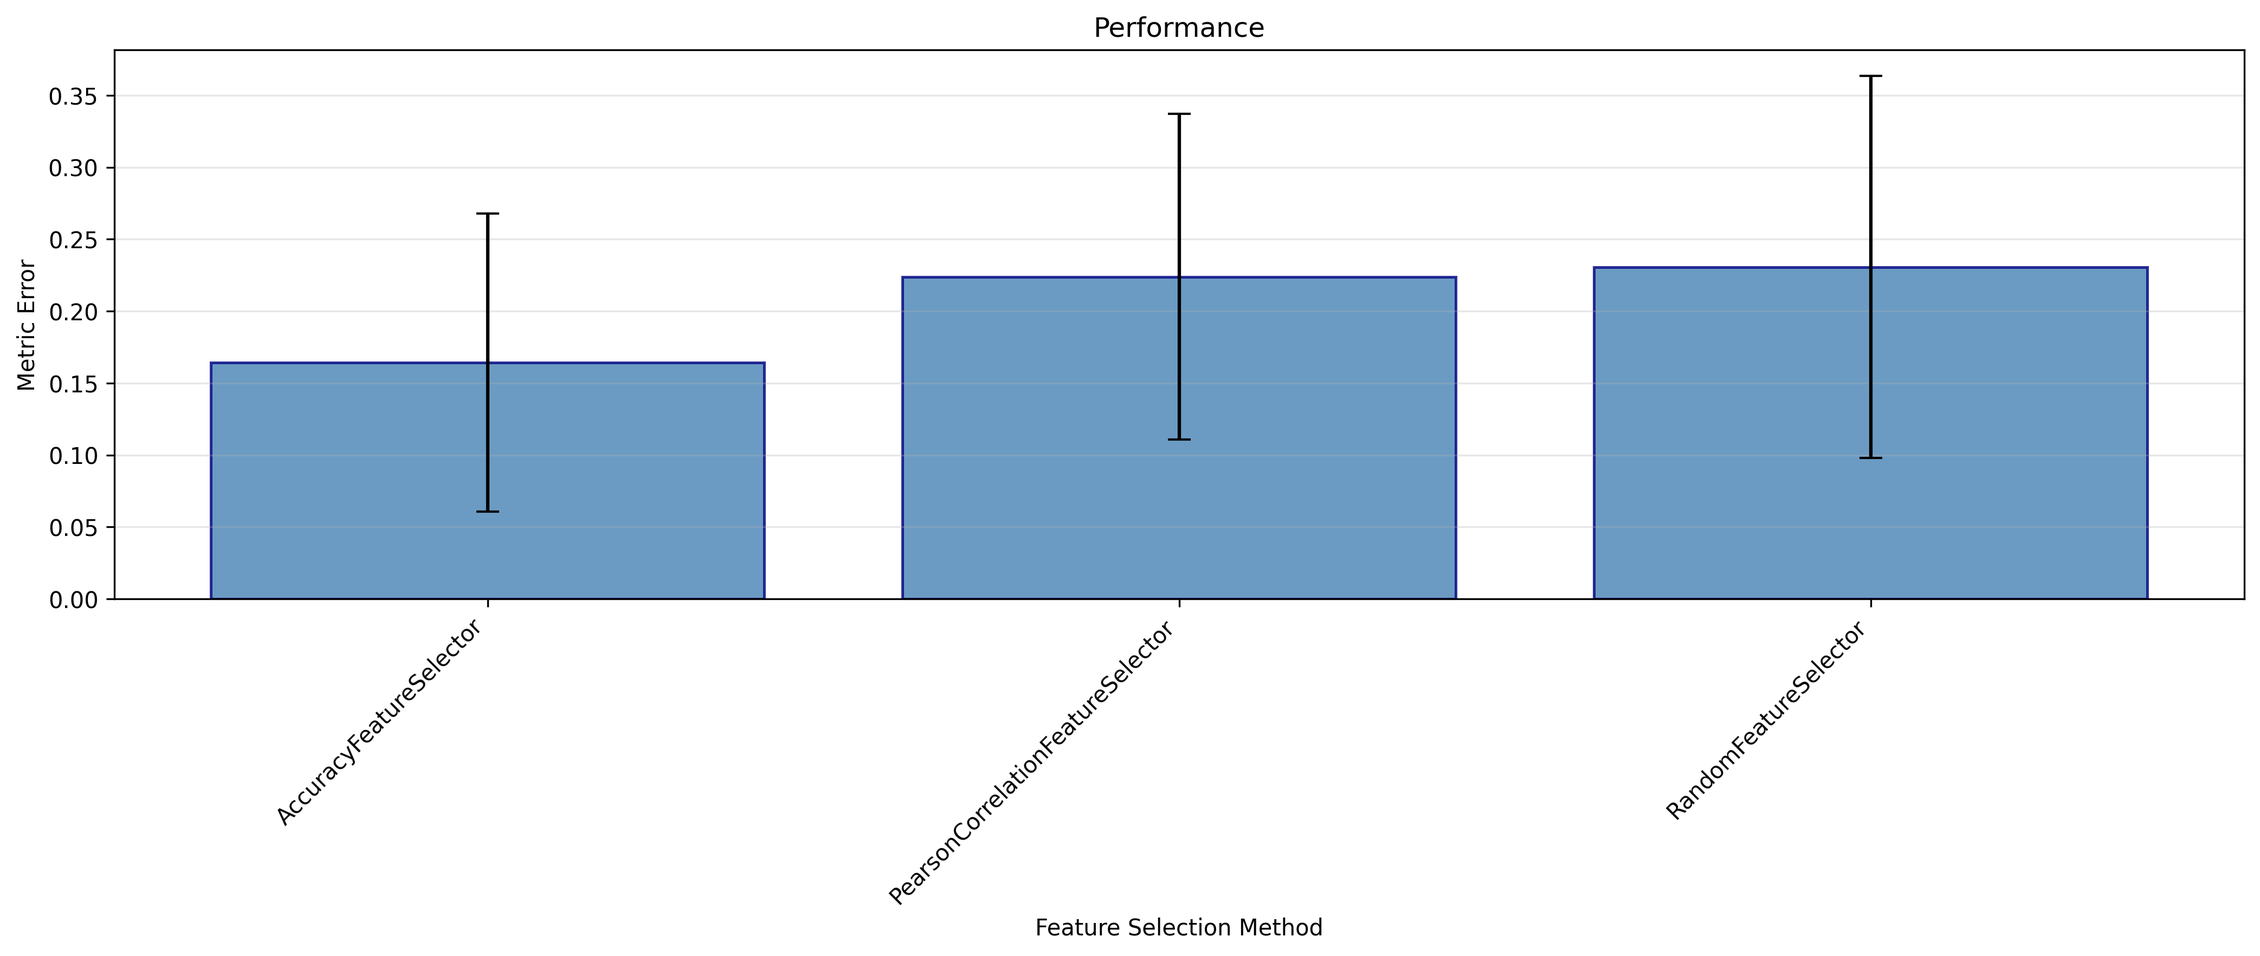
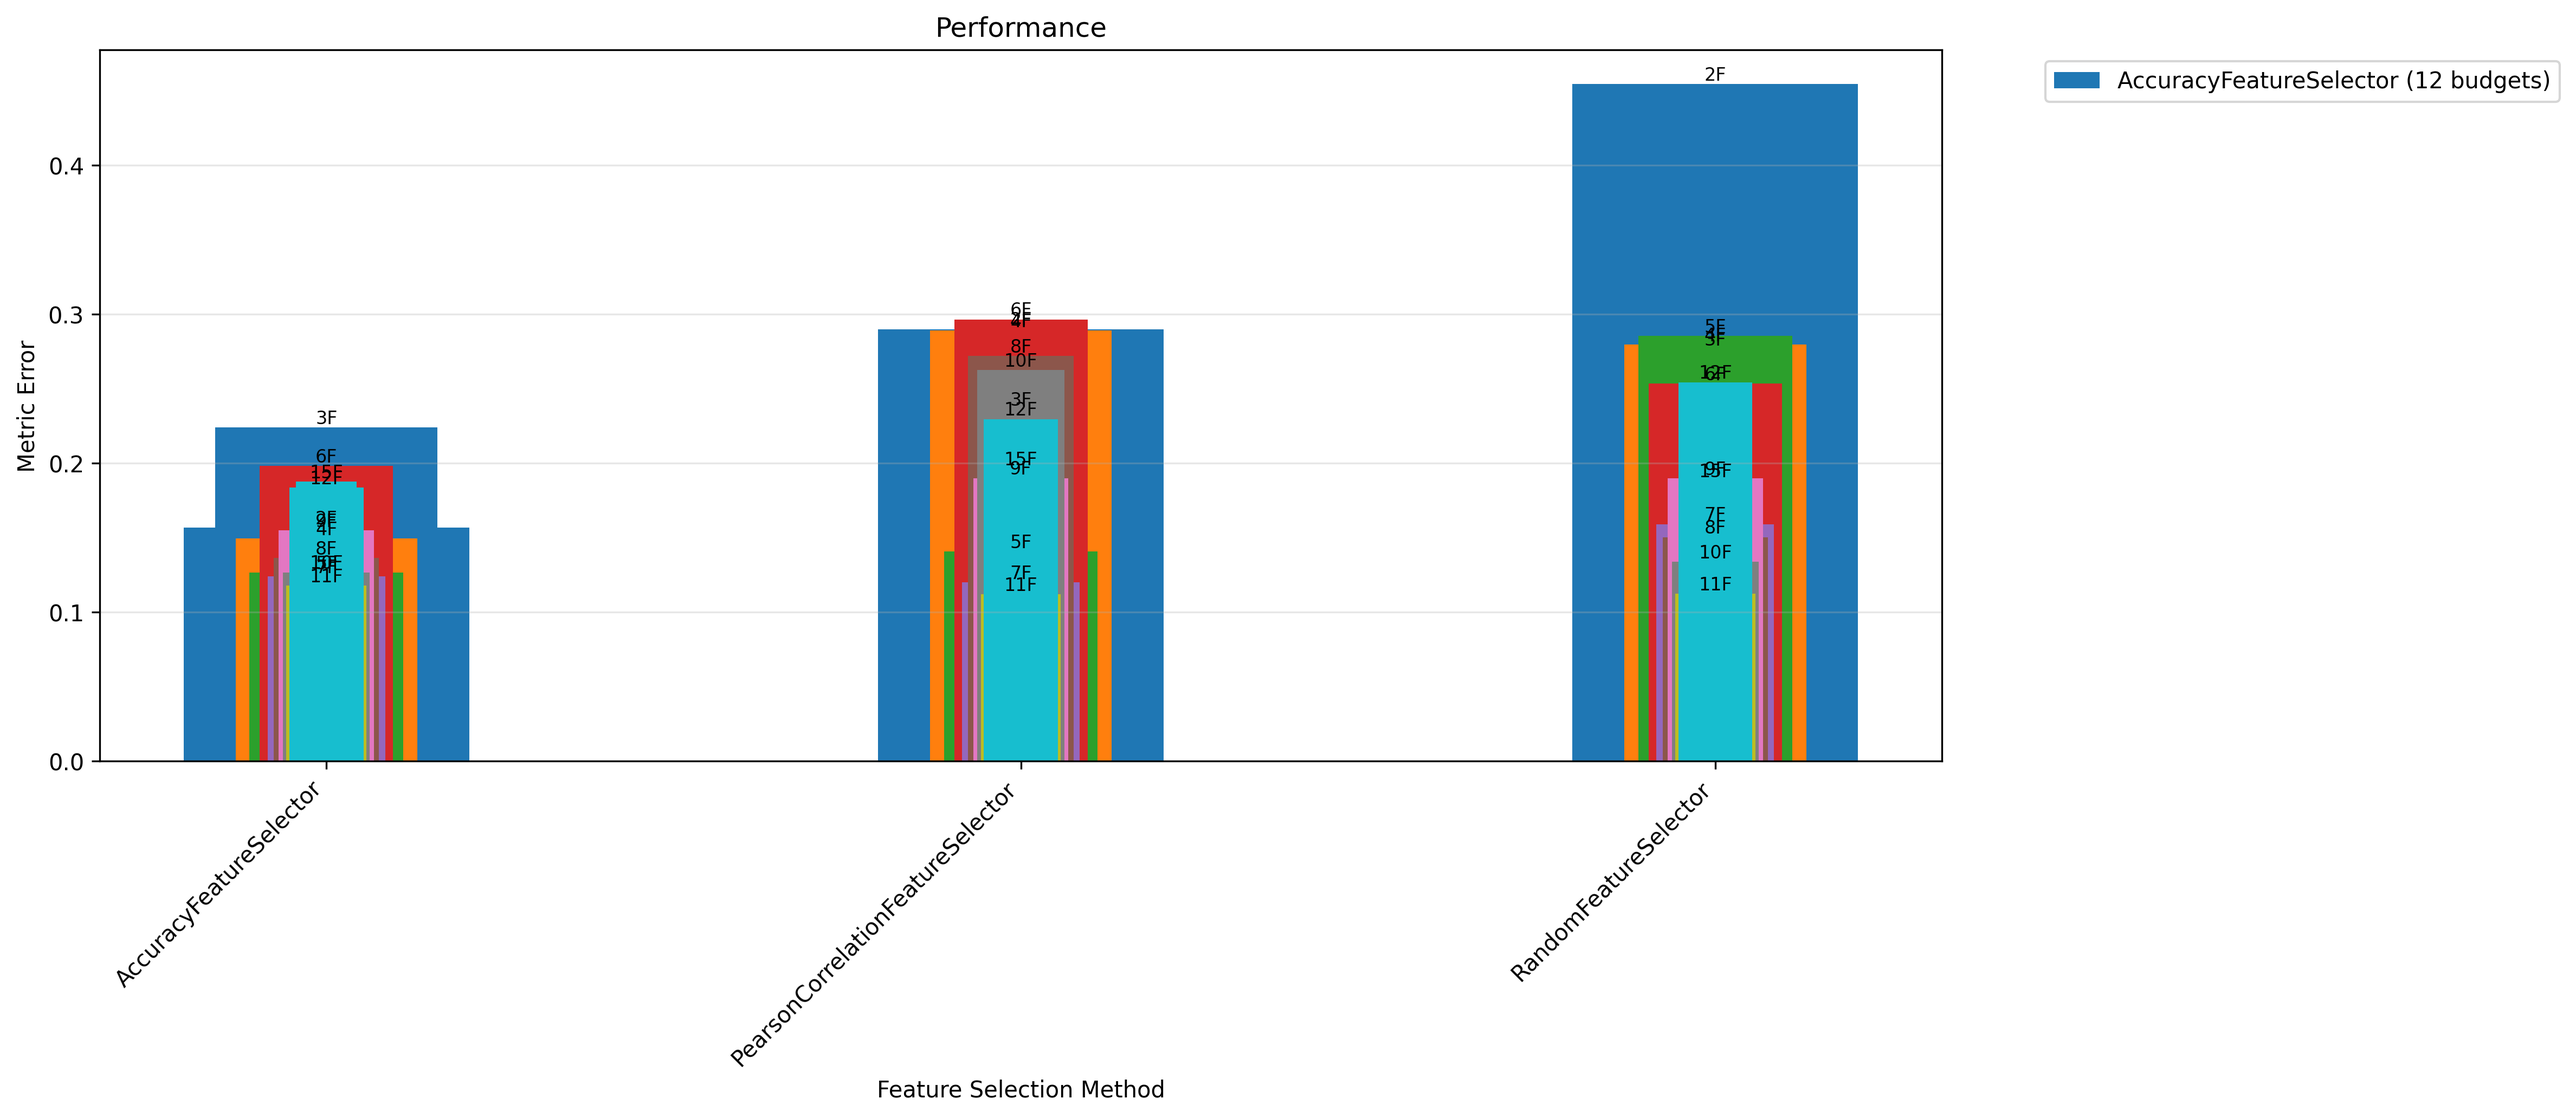
fix: change performance_v1 from mean to per max_feature

diff --git a/plotting_code/performance_v1.py b/plotting_code/performance_v1.py
@@ -16,32 +16,42 @@ Y_LABEL = "Metric Error"
 # TODO: Adapt plotting function
 def plot(df):
     methods = sorted(df["feature_selection_method"].dropna().unique())
-    data = [
-        df.loc[df["feature_selection_method"] == method, "metric_error"].dropna().values
-        for method in methods
-    ]
 
-    fig, ax = plt.subplots(figsize=(14, 6))
+    # Group by method AND max_features for multiple bars per method
+    groups = df.dropna(subset=["feature_selection_method", "time_train_s", "metric_error", "max_features"])
+    pivot = groups.pivot_table(values='metric_error', index='feature_selection_method',
+                               columns='max_features', aggfunc='mean').fillna(np.nan)
 
-    # Calculate mean and std for error bars
-    means = [np.mean(d) for d in data]
-    stds = [np.std(d) for d in data]
+    fig, ax = plt.subplots(figsize=(16, 7))
 
-    # Bar chart with error bars
-    bars = ax.bar(range(len(methods)), means, yerr=stds, capsize=5,
-                  color='steelblue', alpha=0.8, edgecolor='navy', linewidth=1.2)
+    max_feats = sorted(pivot.columns)  # e.g. [5, 10, 20] or [50, 100, 200, 500]
+    step_to_color = plt.get_cmap("tab10", len(max_feats))
+    colors = {mf: step_to_color(i) for i, mf in enumerate(max_feats)}
 
-    # Add value labels on bars
-    for bar, mean in zip(bars, means):
-        height = bar.get_height()
-        # ax.text(bar.get_x() + bar.get_width() / 2., height + max(stds) * 0.01, f'{mean:.3f}', ha='center', va='bottom', fontweight='bold')
+    for i, method in enumerate(methods):
+        method_cols = pivot.loc[method].dropna().index  # Available max_features values
 
-    ax.set_xticks(range(len(methods)))
+        # Width inversely proportional to max_features (smaller #features = narrower bar)
+        widths = 0.8 / (np.array(method_cols) / method_cols.max() + 0.1)  # Avoid div0
+
+        means = pivot.loc[method].dropna().values
+        bar_colors = [colors[mf] for mf in method_cols]
+
+        bars = ax.bar(i, means, width=widths * 0.12, color=bar_colors, label=f'{method} ({len(method_cols)} budgets)' if i == 0 else "")
+
+        # Annotate #features on bars
+        for bar, n_feat in zip(bars, method_cols):
+            height = bar.get_height()
+            ax.text(bar.get_x() + bar.get_width() / 2., height,
+                    f'{int(n_feat)}F', ha='center', va='bottom', fontsize=8)
+
+    ax.set_xticks(np.arange(len(methods)))
     ax.set_xticklabels(methods, rotation=45, ha='right')
     ax.set_title(PLOT_TITLE)
     ax.set_xlabel(X_LABEL)
     ax.set_ylabel(Y_LABEL)
     ax.grid(True, alpha=0.3, axis='y')
+    ax.legend(bbox_to_anchor=(1.05, 1), loc='upper left')
 
     plt.tight_layout()
     out = OUTPUT_DIR / PLOT_NAME
